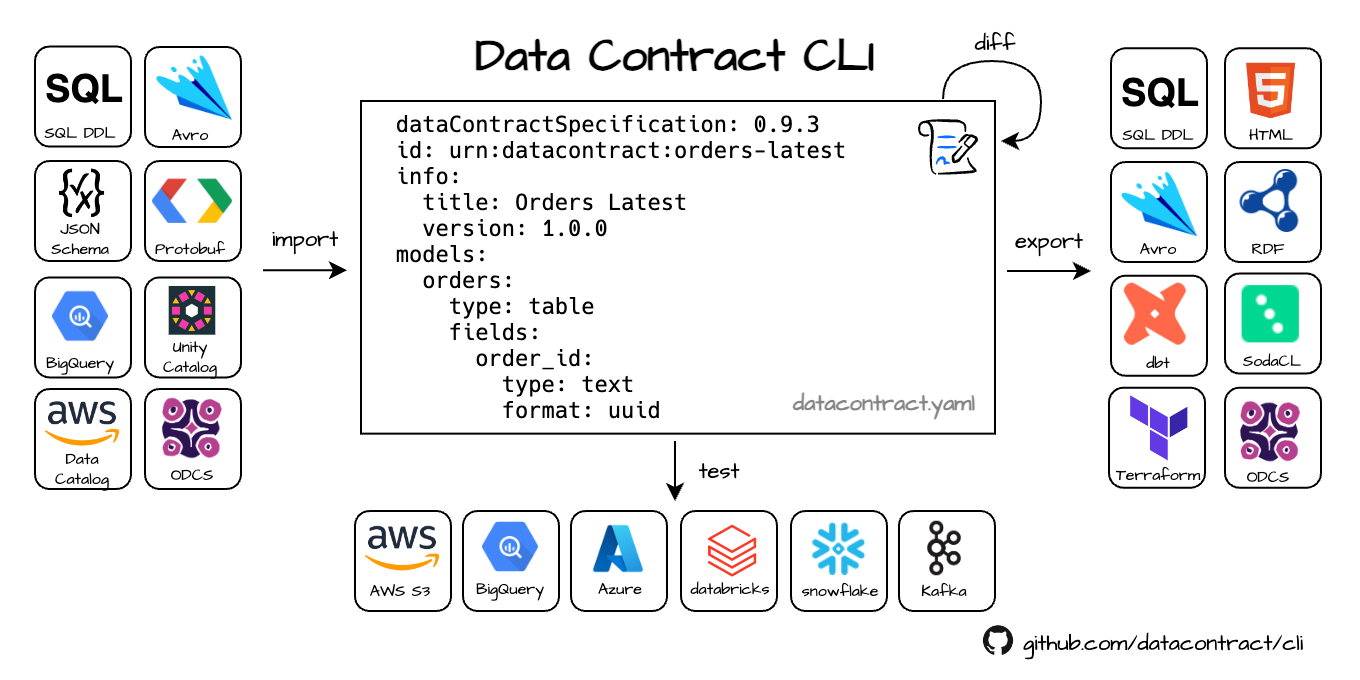
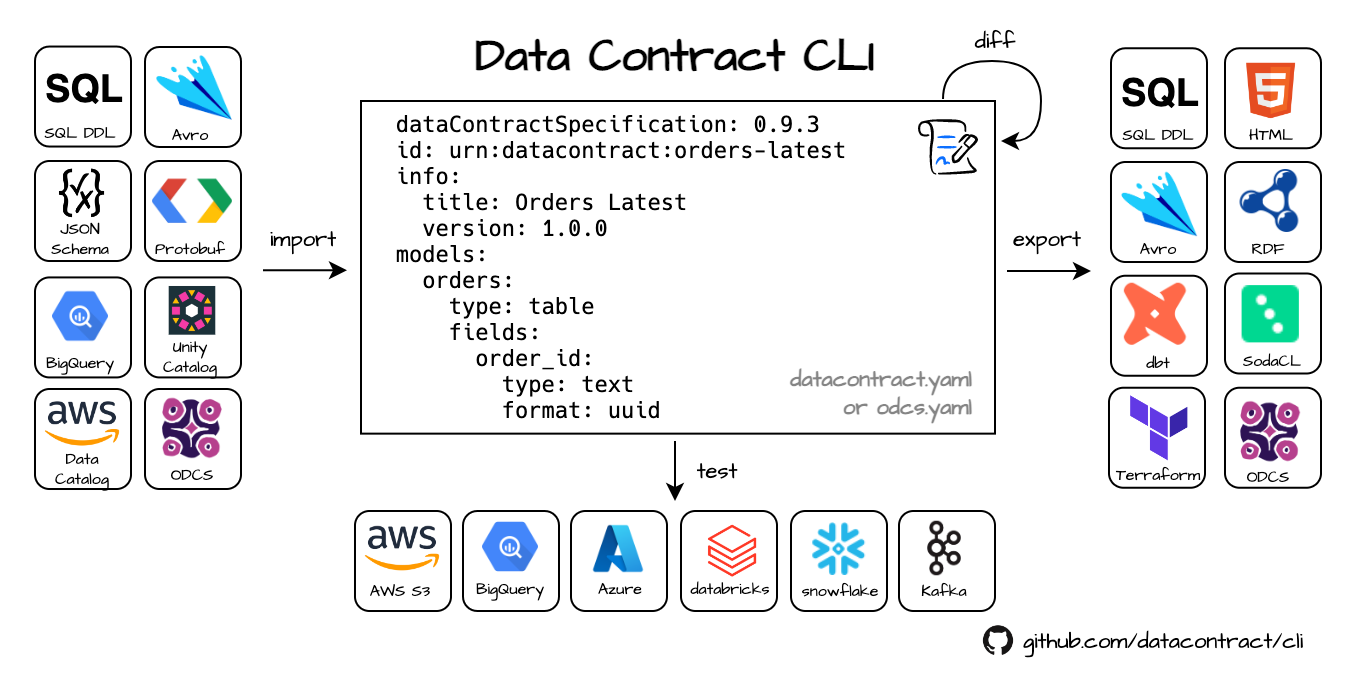
Update readme

diff --git a/README.md b/README.md
@@ -8,8 +8,8 @@
   <a href="https://datacontract.com/slack" rel="nofollow"><img src="https://img.shields.io/badge/slack-join_chat-white.svg?logo=slack&amp;style=social" alt="Slack Status" data-canonical-src="https://img.shields.io/badge/slack-join_chat-white.svg?logo=slack&amp;style=social" style="max-width: 100%;"></a>
 </p>
 
-The `datacontract` CLI is an open source command-line tool for working with [Data Contracts](https://datacontract.com/).
-It uses data contract YAML files to lint the data contract, connect to data sources and execute schema and quality tests, detect breaking changes, and export to different formats. The tool is written in Python. It can be used as a standalone CLI tool, in a CI/CD pipeline, or directly as a Python library.
+The `datacontract` CLI is an open-source command-line tool for working with data contracts.
+It uses data contract YAML files as [Data Contract Specification](https://datacontract.com/) or [ODCS](https://bitol-io.github.io/open-data-contract-standard/latest/) to lint the data contract, connect to data sources and execute schema and quality tests, detect breaking changes, and export to different formats. The tool is written in Python. It can be used as a standalone CLI tool, in a CI/CD pipeline, or directly as a Python library.
 
 ![Main features of the Data Contract CLI](datacontractcli.png)
 
@@ -21,15 +21,15 @@ Let's look at this data contract:
 
 We have a _servers_ section with endpoint details to the S3 bucket, _models_ for the structure of the data, _servicelevels_ and _quality_ attributes that describe the expected freshness and number of rows.
 
-This data contract contains all information to connect to S3 and check that the actual data meets the defined schema and quality requirements. We can use this information to test if the actual data set in S3 is compliant to the data contract.
+This data contract contains all information to connect to S3 and check that the actual data meets the defined schema and quality requirements. We can use this information to test if the actual data product in S3 is compliant to the data contract.
 
-Let's use [pip](https://pip.pypa.io/en/stable/getting-started/) to install the CLI (or use the [Docker image](#docker), if you prefer).
+Let's use [pip](https://pip.pypa.io/en/stable/getting-started/) to install the CLI (or use the [Docker image](#docker)),
 ```bash
 $ python3 -m pip install datacontract-cli[all]
 ```
 
 
-We run the tests:
+now, let's run the tests:
 
 ```bash
 $ datacontract test https://datacontract.com/examples/orders-latest/datacontract.yaml
@@ -67,7 +67,7 @@ Testing https://datacontract.com/examples/orders-latest/datacontract.yaml
 
 Voilà, the CLI tested that the _datacontract.yaml_ itself is valid, all records comply with the schema, and all quality attributes are met.
 
-We can also use the datacontract.yaml to export in many [formats](#format), e.g., to SQL:
+We can also use the datacontract.yaml to export in many [formats](#format), e.g., to generate a SQL DDL:
 
 ```bash
 $ datacontract export --format sql https://datacontract.com/examples/orders-latest/datacontract.yaml
@@ -147,8 +147,7 @@ if not run.has_passed():
 Choose the most appropriate installation method for your needs:
 
 ### pip
-Python 3.11 recommended.
-Python 3.12 available as pre-release release candidate for 0.9.3
+Python 3.10, 3.11, and 3.12 are supported. We recommend to use Python 3.11.
 
 ```bash
 python3 -m pip install datacontract-cli[all]
@@ -162,16 +161,21 @@ pipx install datacontract-cli[all]
 
 ### Docker
 
+You can also use our Docker image to run the CLI tool. It is also convenient for CI/CD pipelines.
+
 ```bash
 docker pull datacontract/cli
 docker run --rm -v ${PWD}:/home/datacontract datacontract/cli
 ```
 
-Or via an alias that automatically uses the latest version:
+You can create an alias for the Docker command to make it easier to use:
 
 ```bash
 alias datacontract='docker run --rm -v "${PWD}:/home/datacontract" datacontract/cli:latest'
 ```
+
+_Note:_ The output of Docker command line messages is limited to 80 columns and may include line breaks. Don't pipe docker output to files if you want to export code. Use the `--output` option instead.
+
 
 
 ## Optional Dependencies
